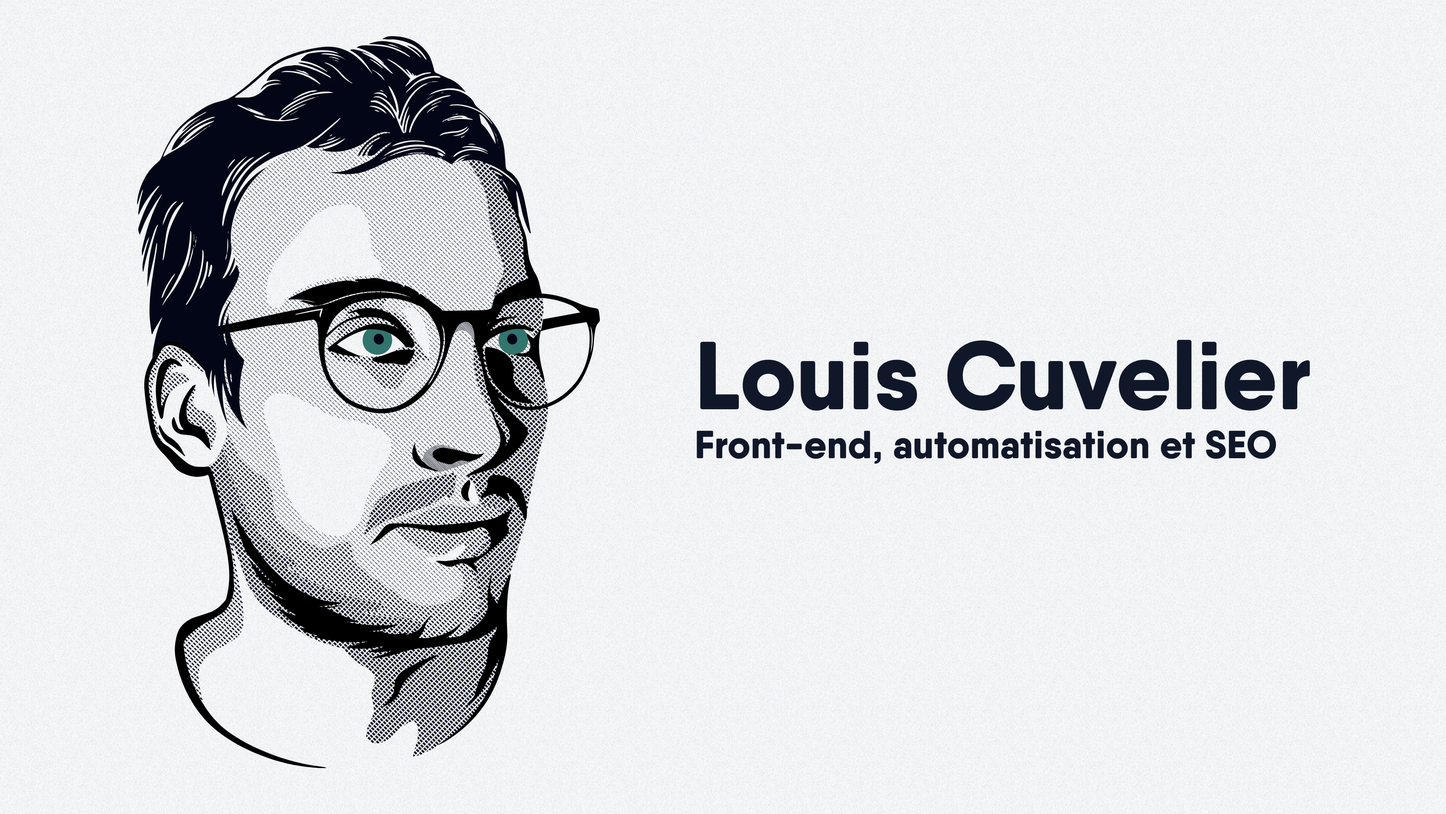
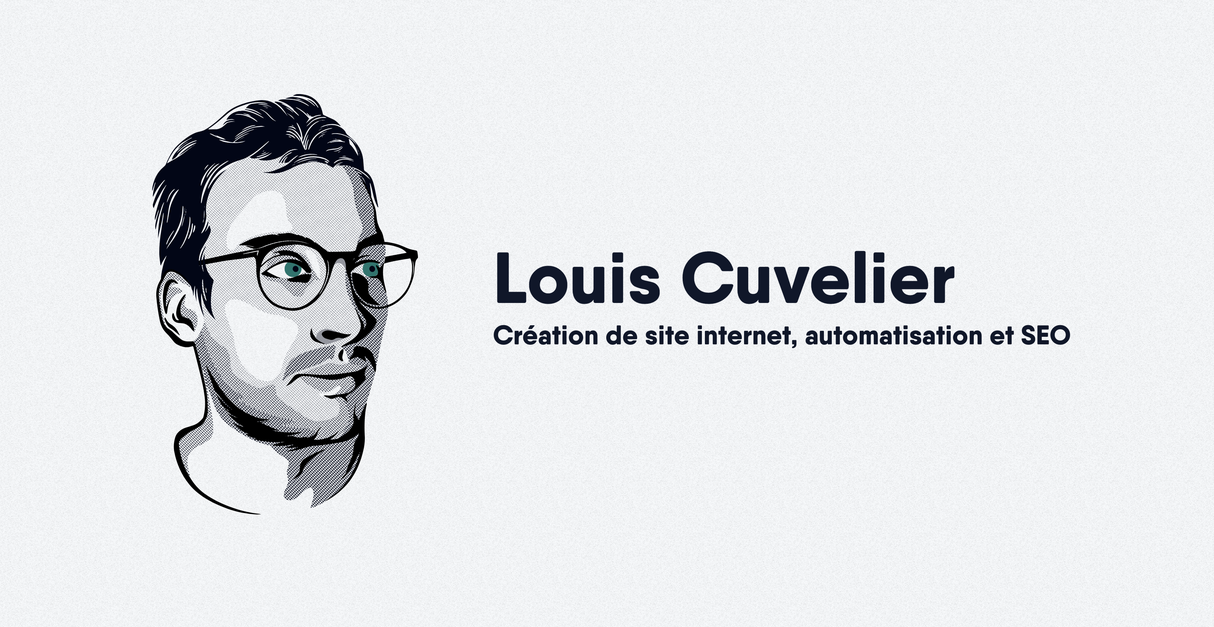
Changed cover.png

Changed region(s): [[0.0931, 0.0312, 0.9305, 0.9364], [0.1551, 0.9052, 0.1861, 0.9364]]

diff --git a/app/prestations/page.js b/app/prestations/page.js
@@ -1,10 +1,10 @@
 import { openGraphImage } from "../shared-metadata";
 import PrestationCard from "../../components/PrestationCard";
 
-const title = "À propos";
+const title = "Prestations";
 const description =
-  "Découvrez l'histoire derrière mon parcours en freelance et entrepreneuriat. Diplômé d'un Master 2 en Chef de projet web, j'ai évolué dans le monde du développement front-end, de l'automatisation et du SEO. Mon engagement à créer des solutions pratiques et innovantes est renforcé par mon expérience entrepreneuriale. Plongez dans mon profil professionnel et contactez-moi pour collaborer sur vos défis digitaux.";
-const url = "a-propos";
+  "De la création de votre site internet à l'automatisation méticuleuse et au référencement naturel stratégique, nos prestations transforment vos ambitions en succès en ligne. Découvrez comment nous créons, simplifions et propulsons votre présence sur internet.";
+const url = "prestations";
 
 export const metadata = {
   alternates: {

diff --git a/app/layout.js b/app/layout.js
@@ -5,9 +5,10 @@ import Navbar from "../components/Navbar";
 import Footer from "../components/Footer";
 import { openGraphImage } from "./shared-metadata";
 
-const title = "Louis Cuvelier - Développeur front-end, automatisation et SEO";
+const title =
+  "Louis Cuvelier - Créaiton de site internet, automatisation et SEO";
 const description =
-  "Freelance passionné par le code et l'entrepreneuriat, avec une expertise en développement front-end, automatisation et SEO.";
+  "Freelance passionné par le code et l'entrepreneuriat, avec une expertise en création de site internet, automatisation et référencement naturel.";
 
 export const metadata = {
   metadataBase: new URL("https://louiscuvelier.com"),
